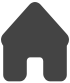
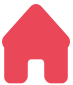
增加修改个人资料页面；增加底部tabar；增加页面切花逻辑

diff --git a/view/main.html b/view/main.html
@@ -6,10 +6,10 @@
     <meta http-equiv="X-UA-Compatible" content="ie=edge">
     <meta name="renderer" content="webkit">
     <title>首页</title>
-    <link rel="stylesheet" href="/pk10_web/layui/css/layui.css">
-    <link rel="stylesheet" href="/pk10_web/layui/css/layui.mobile.css">
-    <link rel="stylesheet" href="/pk10_web/css/reset.css">
-    <link rel="stylesheet" href="/pk10_web/css/main.css">
+    <link rel="stylesheet" href="/layui/css/layui.css">
+    <link rel="stylesheet" href="/layui/css/layui.mobile.css">
+    <link rel="stylesheet" href="/css/reset.css">
+    <link rel="stylesheet" href="/css/main.css">
 </head>
 <body>
     <header class="main_header">
@@ -24,11 +24,12 @@
             <a href="#" class="main_header_title">娱乐平台</a>
         </section> -->
     </header>
+
     <div class="content">
         <div class="navlist" id="navlist"></div>
         <div class="main_content" id="main_content">
-            
-            <div class="data_content">
+            <!-- 首页 -->
+            <div class="data_content index_data">
                 <div class="data_base">
                     <h3 class="data_base_title">
                         <i class="data_base_icon data_base_img"></i>
@@ -154,21 +155,77 @@
                         </div>
                     </div>
             </div>
+            <!-- 个人中心 -->
+            <div class="data_content personal_data">
+                <div class="data_base">
+                    <h3 class="data_base_title">
+                        个人资料
+                    </h3>
+                    <ul class="data_base_list">
+                        <li>
+                            <span class="data_base_span data_base_titleLeft">
+                                <i class="icon-li data_base_icon1"></i>
+                                账号
+                            </span>
+                            <span class="data_base_span data_base_titleRight">B12</span>
+                        </li>
+                        <li>
+                            <span class="data_base_span data_base_titleLeft">
+                                <i class="icon-li data_base_icon2"></i>
+                                真是姓名
+                            </span>
+                            <span class="data_base_span data_base_titleRight">周欣欣</span>
+                        </li>
+                        <li>
+                            <span class="data_base_span data_base_titleLeft">
+                                <i class="icon-li data_base_icon3"></i>
+                                手机号码
+                            </span>
+                            <span class="data_base_span data_base_titleRight">1805673221</span>
+                        </li>
+                        <li>
+                            <span class="data_base_span data_base_titleLeft">
+                                <i class="icon-li data_base_icon4"></i>
+                                银行卡资料
+                            </span>
+                            <span class="data_base_span data_base_titleRight">农业银行/3471738383838383838</span>
+                        </li>
+                        <li>
+                            <span class="data_base_span data_base_titleLeft">
+                                <i class="icon-li data_base_icon5"></i>
+                                支付宝收款吗
+                            </span>
+                            <span class="data_base_span data_base_titleRight">周欣欣</span>
+                        </li>
+                        <li>
+                            <span class="data_base_span data_base_titleLeft">
+                                <i class="icon-li data_base_icon6"></i>
+                                微信收款码
+                            </span>
+                            <span class="data_base_span data_base_titleRight">周欣欣</span>
+                        </li>
+                    </ul>
+                    <div class="editButtonBox">
+                        <button type="button" class="editUserInfo">确认修改</button>
+                    </div>
+                </div>
+            </div>
             
         </div>
     </div>
+
     <footer>
         <section>
             <div class="footer">
-                <a href="#">
+                <a href="javascript:;" id="index_data">
                     <i class="footer_icon index_icon"></i>
                     首页
                 </a>
-                <a href="#">
+                <a href="javascript:;" id="recreation_platform">
                     <i class="footer_icon recreation_icon"></i>
                     娱乐平台
                 </a>
-                <a href="#">
+                <a href="javascript:;" id="personal_data">
                     <i class="footer_icon user_icon"></i>
                     我的
                 </a>

diff --git a/css/main.css b/css/main.css
@@ -3,7 +3,7 @@
 .main_content{width:100%;transition: all .3s;}
 .main_header{display: flex;justify-content: space-between;padding:0 25px;box-sizing:border-box;background:#EA4758;}
 .icon-menu{display: block;width:25px;height:3px;padding:5px 0;border-top:3px solid;border-bottom:3px solid;background-color:currentColor;background-clip: content-box;}
-.main_header_title{display:block;font-size:1.6rem;padding:11px 0;color:white;width:100%;}
+.main_header_title{display:block;font-size:1.6rem;height:45px;line-height:45px;color:white;width:100%;}
 .main_header_title:hover{color:white;}
 /* 基础信息 */
 .data_base_icon{display:inline-block;width:20px;height:15px;background-size:100% 15px;background-repeat: no-repeat;background-position: 0 0;position: relative;top:2px;right:5px;}
@@ -18,7 +18,7 @@
 .data_base_icon6{background:rgb(121, 68, 125);}
 .data_base_icon7{background:rgb(18, 150, 219);}
 .data_base_icon8{background:rgb(245, 166, 35);}
-.data_content{width:800px;margin:45px auto 75px;}
+.data_content{width:800px;margin:55px auto 75px;}
 .data_base{background:white;border-radius:5px;margin-top:10px;}
 .data_base_title{font-size:1.6rem;padding:10px 0;text-align:center;}
 .data_base_list li{display:flex;justify-content: space-between;font-size:1.4rem;border-bottom:1px dotted rgb(153,153,153);margin:0 10px 0 15px;height:45px;box-sizing:border-box;}
@@ -41,9 +41,15 @@
 .footer a{text-align:center;color:#535353;}
 .footer a:active{color:#EA4758;}
 .footer_icon{display:block;width:24px;height:29.7px;margin:10px auto 0;background-position: 0 0;background-repeat: no-repeat;background-size:100%;}
-.index_icon{background-image:url('/imgs/index1.png');}
+.index_icon{background-image:url('/imgs/index2.png');}
 .recreation_icon{background-image:url('/imgs/recreation1.png');}
 .user_icon{background-image:url('/imgs/user1.png');}
+.personal_data .data_base{padding-bottom:45px;}
+.editButtonBox{margin-top:45px;}
+.editUserInfo{display: block;margin:0 auto;width:80%;height:45px;line-height:45px;color:white;background:#EA4758;border:none;border-radius:5px;}
+
+.index_data{display:block;transition:all .3s;}
+.personal_data{display:none;transition:all .3s;}
 
 @media screen and (max-width:750px) {
     html,body{width:100%;height:100%;}

diff --git a/js/main.js b/js/main.js
@@ -15,5 +15,47 @@ window.onload = function(){
     //         this.dataset.isshow = 'false';
     //     }
     // }
+
+    // 底部icon图标地址
+    var tabarIcon = {
+        "index_data":[
+            "/imgs/index1.png",
+            "/imgs/index2.png"
+        ],
+        "recreation_platform":[
+            "/imgs/recreation1.png",
+            "/imgs/recreation2.png",
+        ],
+        "personal_data":[
+            "/imgs/user1.png",
+            "/imgs/user2.png",
+        ]
+    }
+
+    // 头部标题
+    var topTitle = $(".main_header_title");
+
+    // 底部Tabar切换
+    $("#index_data, #recreation_platform, #personal_data").on("click", function(){
+        var id = $(this).prop("id");
+        $("." + id).fadeIn(0).siblings().fadeOut(0);
+        // 改变选中字体颜色
+        $(this).css('color', '#EA4758').siblings().css('color', '#535353');
+        // 改变icon图标
+        $.each($(".footer a"), function(i, n){
+            var id_item_v = $(n).prop('id');
+            if(id === id_item_v) {
+                $(n).children("i").css("backgroundImage", "url(" + tabarIcon[id_item_v][1] + ")");
+            } else {
+                $(n).children("i").css("backgroundImage", "url(" + tabarIcon[id_item_v][0] + ")");
+            }
+        });
+        // 切换顶部标题
+        switch(id) {
+            case 'index_data': topTitle.text('pk10');break;
+            case 'recreation_platform': topTitle.text('娱乐中心');break;
+            case 'personal_data': topTitle.text('个人资料');break;
+        }
+    });
     
 }

diff --git a/js/login.js b/js/login.js
@@ -10,7 +10,7 @@ window.onload = function(){
                     var loadIndex = layer.load(1);
                     setTimeout(function(){
                         layer.close(loadIndex);
-                        location.href = "/pk10_web/view/main.html";
+                        location.href = "/view/main.html";
                     }, 1000);
                     // 后台登录操作
                 } else {
